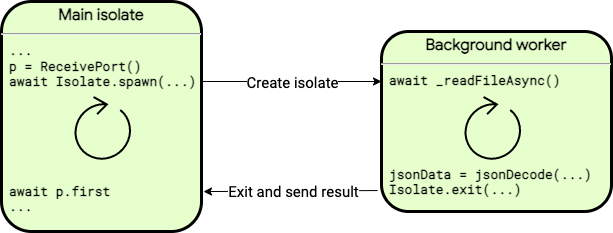
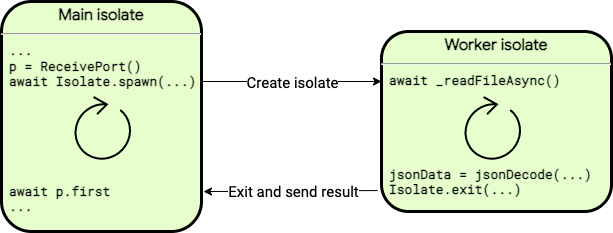
Add image descriptions, update worker isolate figures

Changed region(s): [[0.6819, 0.1502, 0.9299, 0.2403]]

diff --git a/src/_guides/language/concurrency/index.md b/src/_guides/language/concurrency/index.md
@@ -198,23 +198,29 @@ After handling the events, the isolate exits.
 ### Event handling
 
 In a client app, the main isolate’s event queue might contain
-repaint requests and notifications of tap and other UI events, like this:
-***[PENDING: describe the figure in more detail.]***
+repaint requests and notifications of tap and other UI events.
+For example, the following figure shows a repaint event,
+followed by a tap event, followed by two repaint events.
+The event loop takes events from the queue in first in, first out order.
 
-![PENDING: alt text here](/guides/language/concurrency/images/event-loop.png)
+![A figure showing events being fed, one by one, into the event loop](/guides/language/concurrency/images/event-loop.png)
 
-The event handling happens on the main isolate after `main()` exits:
-***[PENDING: describe the figure in more detail.]***
+Event handling happens on the main isolate after `main()` exits.
+In the following figure, after `main()` exits,
+the main isolate handles the first repaint event.
+After that, the main isolate handles the tap event,
+followed by a repaint event.
 
-![PENDING: alt text here](/guides/language/concurrency/images/event-handling.png)
+![A figure showing the main isolate executing event handlers, one by one](/guides/language/concurrency/images/event-handling.png)
 
 If a synchronous operation takes too much processing time,
 the app can become unresponsive.
 In the following figure, the tap-handling code takes too long,
-so subsequent events are handled too late:
-***[PENDING: describe the figure in more detail.]***
+so subsequent events are handled too late.
+The app might appear to freeze,
+and any animation it performs might be jerky.
 
-![PENDING: alt text here](/guides/language/concurrency/images/event-jank.png)
+![A figure showing a tap handler with a too-long execution time](/guides/language/concurrency/images/event-jank.png)
 
 In client apps, the result of a too-lengthy synchronous operation is often
 [janky (non-smooth) UI animation][jank].
@@ -236,9 +242,7 @@ The worker isolate returns its result in a message when the worker exits.
 
 [json]: https://docs.flutter.dev/cookbook/networking/background-parsing)
 
-![PENDING: alt text here](/guides/language/concurrency/images/isolate-bg-worker.png)
-<br>
-***[PENDING: Inside the figure, Background worker -> Worker isolate]***
+![A figure showing a main isolate and a simple worker isolate](/guides/language/concurrency/images/isolate-bg-worker.png)
 
 Each isolate message can deliver one object,
 which includes anything that’s transitively reachable from that object.
@@ -367,12 +371,10 @@ That transfer is quick and completes in constant time — O(1).
   using `Isolate.send()` as shown in the next section's example.
 {{site.alert.end}}
 
-The following figure summarizes the communication between
-the main isolate and the second isolate:
+The following figure illustrates the communication between
+the main isolate and the worker isolate:
 
-![PENDING: alt text here](/guides/language/concurrency/images/isolate-api.png)
-<br>
-***[PENDING: Inside the figure, Background worker -> Worker isolate]***
+![A figure showing the previous snippets of code running in the main isolate and in the worker isolate](/guides/language/concurrency/images/isolate-api.png)
 
 
 ### Sending multiple messages between isolates
@@ -383,12 +385,7 @@ One common pattern, which the following figure shows,
 is for the main isolate to send a request message to the worker isolate,
 which then sends one or more reply messages.
 
-![PENDING: alt text here](/guides/language/concurrency/images/isolate-custom-bg-worker.png)
-<br>
-***[PENDING: The top arrow should be labeled "Create isolate: Isolate.spawn()"]***
-<br>
-***[PENDING: Inside the figure, Custom background worker -> Worker isolate]***
-
+![A figure showing the main isolate spawning the isolate and then sending a request message, which the worker isolate responds to with a reply message; two request-reply cycles are shown](/guides/language/concurrency/images/isolate-custom-bg-worker.png)
 
 For examples of sending multiple messages,
 see the following [isolate samples][]:
